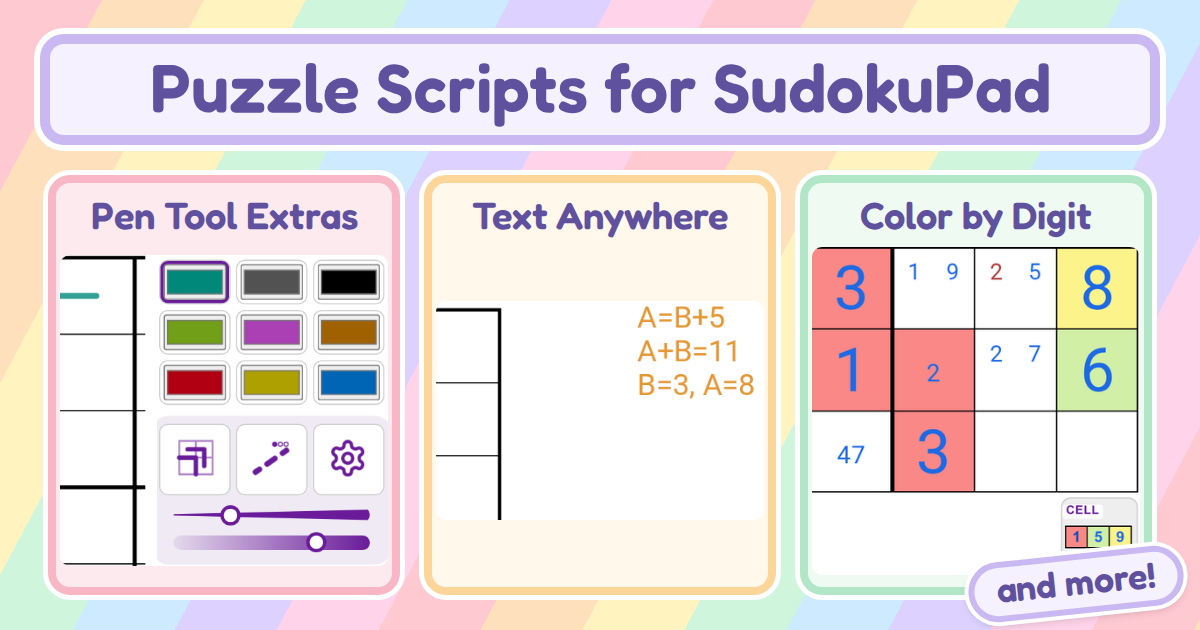
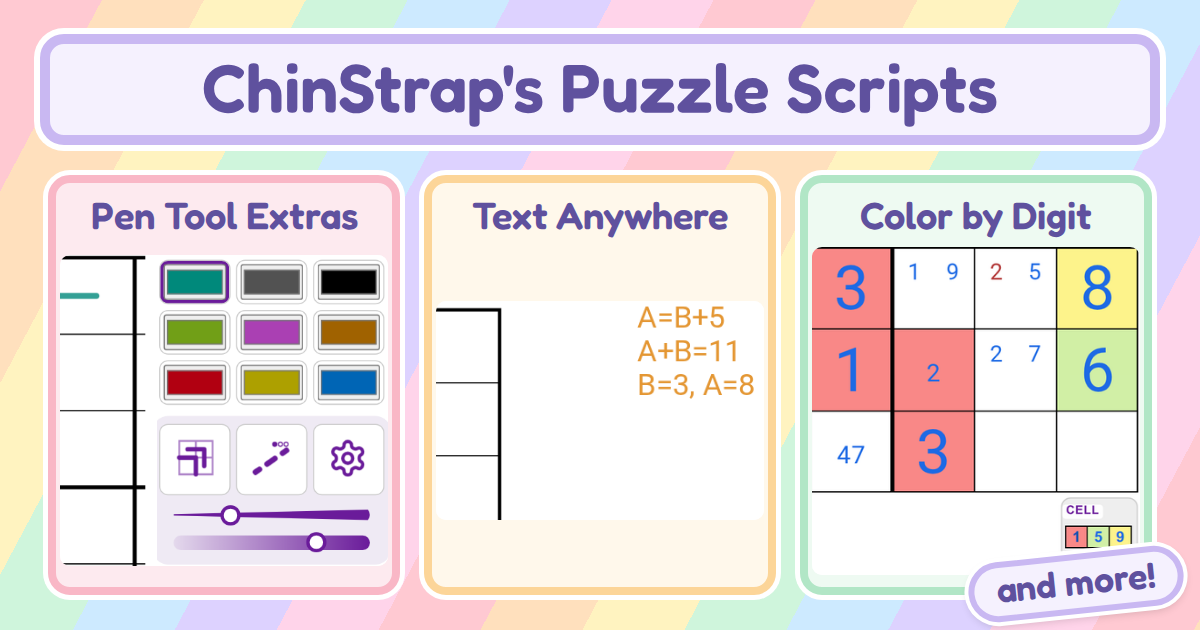
Link-preview card titled ChinStrap's Puzzle Scripts; a picture of Penpa+'s solve page
The Penpa+ picture is not on the homepage yet: test/site.test.js pins that entry with no picture.

Changed region(s): [[0.1233, 0.0905, 0.8942, 0.2111]]

diff --git a/site/index.html b/site/index.html
@@ -8,10 +8,10 @@
 <meta property="og:type" content="website">
 <meta property="og:title" content="Puzzle Scripts">
 <meta property="og:description" content="Small userscripts for SudokuPad and for other puzzle sites: pen colors and marks, typed notes on the board, colors by digit, a dark page and more.">
-<meta property="og:image" content="https://raw.githubusercontent.com/chinstrap45/sudokupad-scripts/main/docs/research/site/site-preview-card.png?v=8d5cbec">
+<meta property="og:image" content="https://raw.githubusercontent.com/chinstrap45/sudokupad-scripts/main/docs/research/site/site-preview-card.png?v=eefdc85">
 <meta property="og:image:width" content="1200">
 <meta property="og:image:height" content="630">
-<meta property="og:image:alt" content="A card titled Puzzle Scripts for SudokuPad with three panels side by side: Pen Tool Extras, the pen panel with its nine color buttons; Text Anywhere, a typed note beside the board; and Color by Digit, board cells colored by digit with its Cell panel; and an &quot;and more!&quot; sticker in the bottom right corner">
+<meta property="og:image:alt" content="A card titled ChinStrap&#39;s Puzzle Scripts with three panels side by side: Pen Tool Extras, the pen panel with its nine color buttons; Text Anywhere, a typed note beside the board; and Color by Digit, board cells colored by digit with its Cell panel; and an &quot;and more!&quot; sticker in the bottom right corner">
 <meta property="og:site_name" content="Puzzle Scripts">
 <meta name="twitter:card" content="summary_large_image">
 <meta name="theme-color" content="#5f519e">
